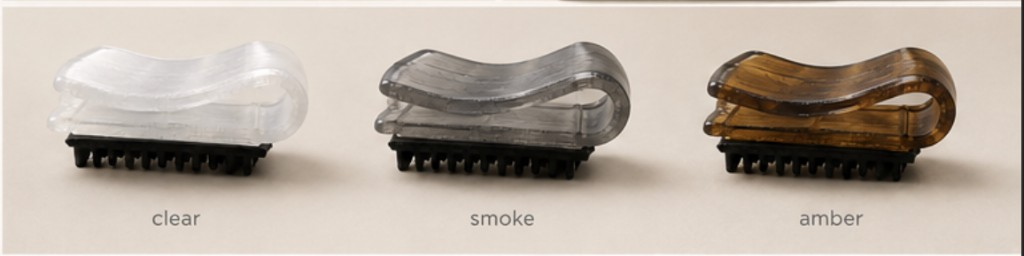
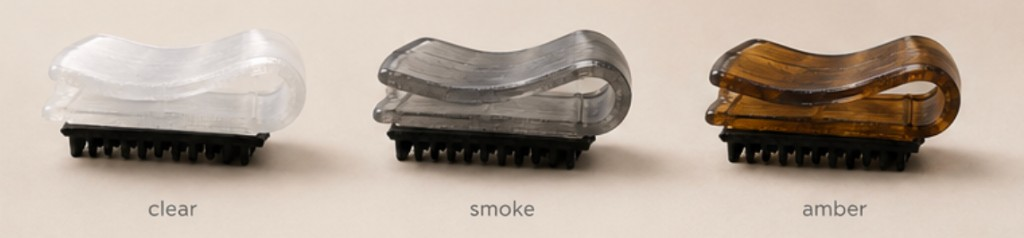
Swap variants lineup art for latest clear/smoke/amber strip

diff --git a/src/assets/images.ts b/src/assets/images.ts
@@ -17,7 +17,7 @@ export const images = {
   /** Editorial still on stone with floral accents */
   productEditorial: "/images/product-editorial.png",
   /** Clear, smoke, and amber variants lineup */
-  variantsLineup: "/images/variants-lineup.jpg",
+  variantsLineup: "/images/variants-lineup.jpg?v=2",
   hero: "/images/hero.jpg",
 
   // Carousel — clip on a different bag type per card

diff --git a/src/sections/MarketingSections.tsx b/src/sections/MarketingSections.tsx
@@ -75,7 +75,7 @@ export function VariantsLineup() {
           src={images.variantsLineup}
           alt="Hinako handbag clip in three finishes: clear, smoke, and amber"
           width={1024}
-          height={256}
+          height={238}
           decoding="async"
           loading="lazy"
           className={stripImgClass}
